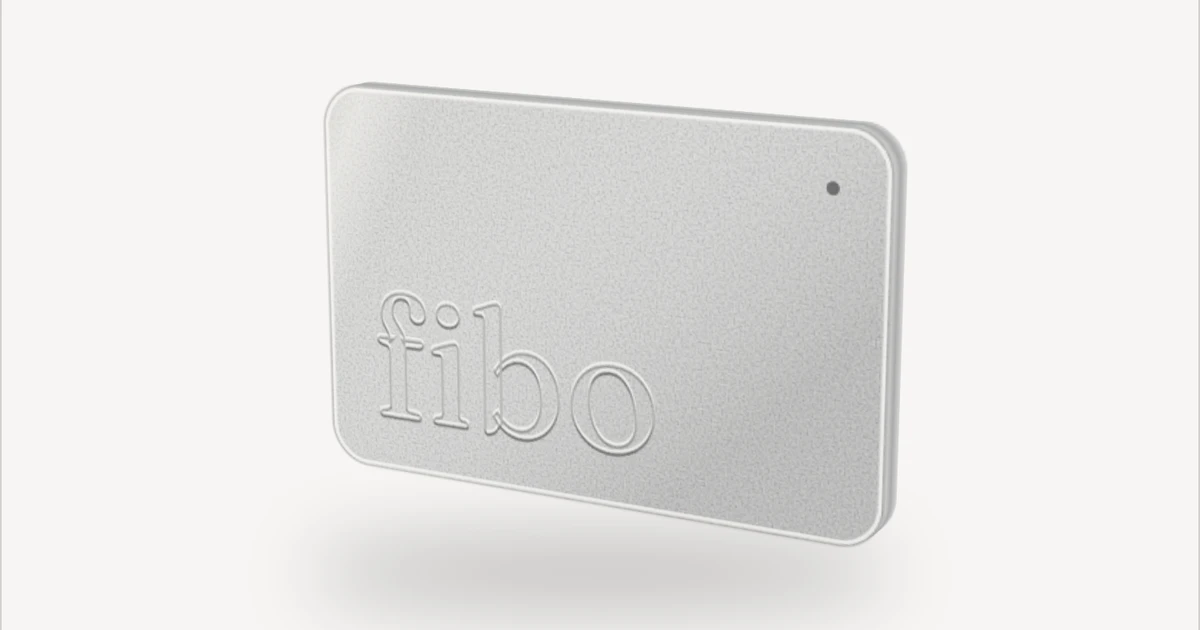
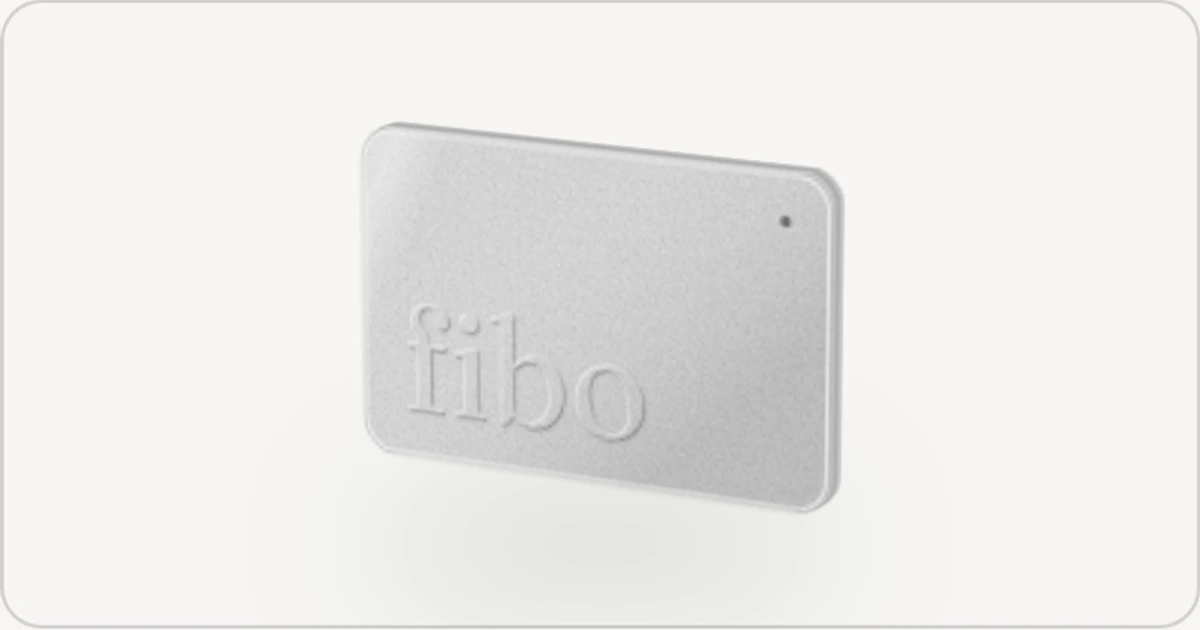
feat(work): shrink the voice memo device and slide it aside to record
On its page the device is small and centered. Pressed, it slides to the
right as the transcript opens on its left, and back once the transcript
closes; in a narrow column the transcript opens underneath. The raised
wordmark's edges now come from a filter on the word's merged shape, lit
from the top left, so the overlap between the f and the i no longer
shows as crossing outlines.

Claude-Session: https://claude.ai/code/session_01WQZVsrR2D1vbrW64Kcpjui

diff --git a/src/features/doc/components/voice-memo-object.tsx b/src/features/doc/components/voice-memo-object.tsx
@@ -151,10 +151,15 @@ function useTurn(rest: Pose) {
   return { rx, ry, back, flip, handlers }
 }
 
+// Small on its page, so the transcript has room beside it.
+const SMALL = "[--w:min(44cqw,13rem)]"
+
 /**
  * The device on its page: a record button you can also pick up. Press it and
- * the transcript opens underneath, filling in as you talk; press it again to
- * stop, then copy the text or save it as Markdown. Drag it to turn it over.
+ * it slides to the right as the transcript opens on its left, filling in as
+ * you talk; press it again to stop, then copy the text or save it as
+ * Markdown. Drag it to turn it over. In a narrow column the transcript opens
+ * underneath instead.
  */
 export function VoiceMemoHero() {
   const { rx, ry, back, flip, handlers } = useTurn(STRAIGHT)
@@ -165,7 +170,8 @@ export function VoiceMemoHero() {
     <div
       className={cn(
         "not-prose @container flex w-full flex-col items-center gap-6 px-4 pt-14 pb-2",
-        SIZE
+        SIZE,
+        SMALL
       )}
       onKeyDown={(event) => {
         if (event.key === "ArrowRight" || event.key === "ArrowLeft") {
@@ -179,10 +185,20 @@ export function VoiceMemoHero() {
         recording={recording}
         onRecordingChange={setRecording}
         side="bottom"
-        className="flex w-full flex-col items-center"
-        panelClassName="relative top-auto left-auto mt-[calc(var(--w)*0.18)] w-80 origin-top before:left-1/2 before:-translate-x-1/2"
+        // Device first, then the transcript: a column when narrow, and from
+        // @xl a row run right to left, so the transcript opens on the left.
+        className="flex w-full flex-col items-center gap-[calc(var(--w)*0.22)] @xl:flex-row-reverse @xl:justify-center @xl:gap-12"
+        panelClassName={cn(
+          "relative top-auto left-auto w-80 max-w-full origin-top before:left-1/2 before:-translate-x-1/2",
+          // Beside the device, its notch points right, back at it.
+          "@xl:origin-right @xl:before:top-1/2 @xl:before:right-[-7px] @xl:before:left-auto @xl:before:translate-x-0 @xl:before:-translate-y-1/2 @xl:before:border-t @xl:before:border-r @xl:before:border-b-0 @xl:before:border-l-0 @xl:starting:translate-x-2 @xl:starting:translate-y-0"
+        )}
         device={
-          <span
+          // `layout` glides the device to wherever the row puts it, so it
+          // slides right as the transcript opens and back when it closes.
+          <motion.span
+            layout={!reduceMotion}
+            transition={{ type: "spring", stiffness: 160, damping: 22 }}
             className="relative block aspect-[85/55] w-(--w) cursor-grab touch-pan-y [perspective:1400px] active:cursor-grabbing"
             {...handlers}
           >
@@ -195,11 +211,11 @@ export function VoiceMemoHero() {
             >
               <Body rx={rx} ry={ry} rest={STRAIGHT} recording={recording} />
             </motion.span>
-          </span>
+          </motion.span>
         }
       />
 
-      <div className="mt-[calc(var(--w)*0.12)] flex items-center gap-3 text-sm text-muted-foreground">
+      <div className="mt-[calc(var(--w)*0.16)] flex items-center gap-3 text-sm text-muted-foreground">
         <span className="hidden sm:inline">
           {recording ? "Press again to stop" : "Press to record, drag to turn"}
         </span>
@@ -373,6 +389,7 @@ function Face({
     shade: `${id}-shade`,
     sheen: `${id}-sheen`,
     clip: `${id}-clip`,
+    edges: `${id}-edges`,
   }
   const { width, height, radius } = FACE
   const wordmark = "fibo"
@@ -446,6 +463,56 @@ function Face({
             style={{ stopColor: "var(--background)", stopOpacity: 0 }}
           />
         </linearGradient>
+        {/* The rim of raised lettering lit from the top left: a bright line
+            along the edges facing the light, where the shape shifted away
+            from it leaves them uncovered, a hard shadow along the far edges
+            and a soft one cast beyond them. */}
+        <filter
+          id={ids.edges}
+          x="-5%"
+          y="-20%"
+          width="110%"
+          height="140%"
+          colorInterpolationFilters="sRGB"
+        >
+          <feOffset in="SourceAlpha" dx="0.7" dy="0.8" result="down" />
+          <feComposite
+            in="SourceAlpha"
+            in2="down"
+            operator="out"
+            result="top"
+          />
+          <feComposite
+            in="down"
+            in2="SourceAlpha"
+            operator="out"
+            result="under"
+          />
+          <feFlood
+            style={{ floodColor: "var(--background)", floodOpacity: 0.85 }}
+          />
+          <feComposite in2="top" operator="in" result="lit" />
+          <feFlood
+            style={{ floodColor: "var(--foreground)", floodOpacity: 0.3 }}
+          />
+          <feComposite in2="under" operator="in" result="shade" />
+          <feGaussianBlur in="down" stdDeviation="0.9" result="soft" />
+          <feComposite
+            in="soft"
+            in2="SourceAlpha"
+            operator="out"
+            result="cast"
+          />
+          <feFlood
+            style={{ floodColor: "var(--foreground)", floodOpacity: 0.12 }}
+          />
+          <feComposite in2="cast" operator="in" result="glow" />
+          <feMerge>
+            <feMergeNode in="glow" />
+            <feMergeNode in="shade" />
+            <feMergeNode in="lit" />
+          </feMerge>
+        </filter>
         <clipPath id={ids.clip}>
           <rect width={width} height={height} rx={radius} />
         </clipPath>
@@ -458,25 +525,6 @@ function Face({
         rx={radius}
         fill={`url(#${ids.shade})`}
       />
-
-      {side === "front" ? (
-        <g fontSize={50} className="font-serif">
-          {[
-            { dy: -0.9, className: "fill-background opacity-90" },
-            { dy: 0.9, className: "fill-foreground opacity-25" },
-            { dy: 0, className: "fill-muted" },
-          ].map((layer) => (
-            <text
-              key={layer.dy}
-              x={14}
-              y={height - 16 + layer.dy}
-              className={layer.className}
-            >
-              {wordmark}
-            </text>
-          ))}
-        </g>
-      ) : null}
 
       {/* Anodized aluminium is a mid gray; the muted role alone is near
           white in the light theme. */}
@@ -503,23 +551,18 @@ function Face({
 
       {side === "front" ? (
         // The lettering's edges again, over the grain, which would otherwise
-        // break up the only thing that says the letters are raised.
-        <g fontSize={50} fill="none" strokeWidth={0.7} className="font-serif">
-          <text
-            x={14}
-            y={height - 16.5}
-            className="stroke-background opacity-80"
-          >
-            {wordmark}
-          </text>
-          <text
-            x={14}
-            y={height - 15.5}
-            className="stroke-foreground opacity-25"
-          >
-            {wordmark}
-          </text>
-        </g>
+        // break up the only thing that says the letters are raised. Drawn by
+        // a filter from the word's merged shape, so where letters overlap,
+        // as the f and i do, no edge shows inside the join.
+        <text
+          x={14}
+          y={height - 16}
+          fontSize={50}
+          filter={`url(#${ids.edges})`}
+          className="font-serif"
+        >
+          {wordmark}
+        </text>
       ) : (
         // A magnet ring pressed into the back, lit from above: dark on its
         // upper wall, bright on its lower one. Then a line of small print.
